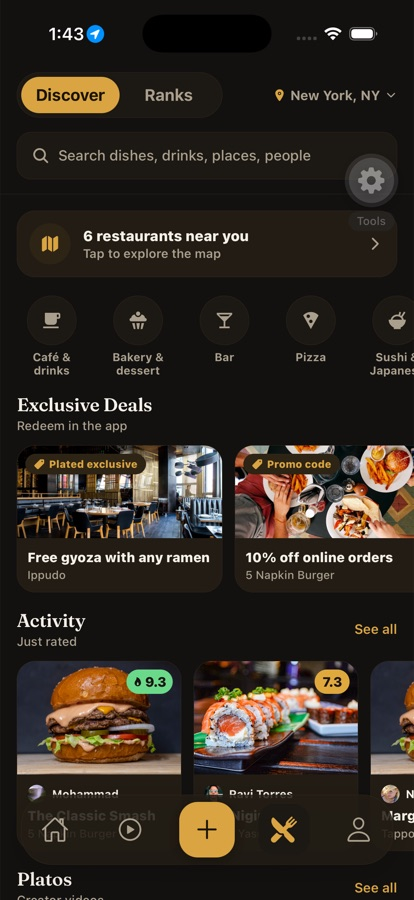
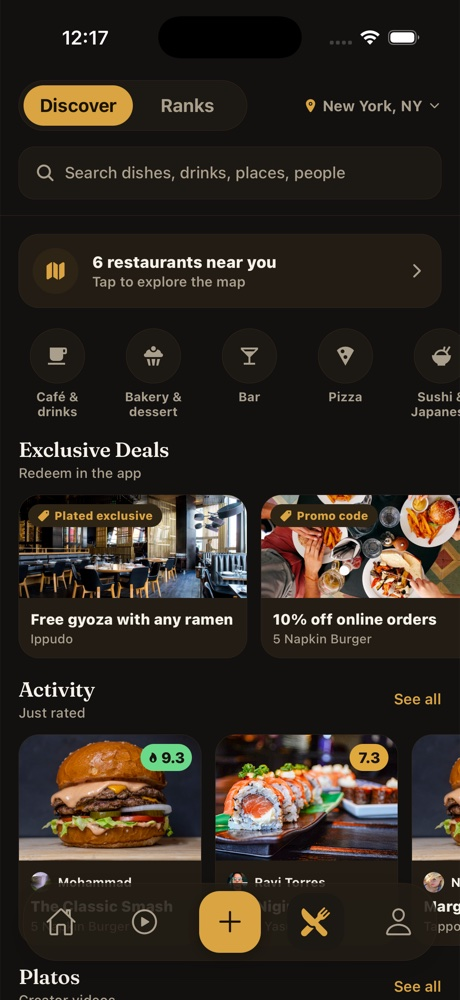
fix(web): remove dev-tools overlay from screenshots, show full device UI
The three app screenshots had the Expo dev-client's floating "Tools" FAB
baked into the image — it sits at a fixed screen position that happened
to land on top of real UI (the home feed's "..." menu, the map settings
gear on Discover), so it couldn't just be cropped without losing actual
app chrome. Disabled it at the source instead: expo-dev-menu persists
FAB visibility via a native DevMenuPreferences.setPreferencesAsync call
(no public JS API for it, so this reached the native module directly
through expo-modules-core's requireNativeModule), toggled off only long
enough to recapture clean screenshots, then restored to on afterward so
the simulator's normal dev workflow is unaffected. No src/ changes.

Also reworked the phone-frame crop: it previously showed only a
top-aligned slice of each screenshot (cutting off the bottom tab bar).
frame-window's aspect-ratio now matches the source screenshots exactly
(460:1000), so object-fit: cover shows the complete UI — status bar to
tab bar — with zero cropping. Bumped phone-frame width up accordingly
(hero 264->336px, feature rows 208->272px) so detail stays legible at
the larger, uncropped size.

diff --git a/web/public/styles.css b/web/public/styles.css
@@ -218,9 +218,9 @@ h1 {
 
 .hero-art { display: flex; justify-content: center; }
 .phone-frame {
-  width: 264px;
-  border-radius: 40px;
-  border: 8px solid #1a1a1a;
+  width: 336px;
+  border-radius: 46px;
+  border: 9px solid #1a1a1a;
   background: #1a1a1a;
   box-shadow: 0 30px 60px -20px rgba(58, 42, 14, 0.4), 0 4px 16px -6px rgba(58, 42, 14, 0.3);
   overflow: hidden;
@@ -229,7 +229,9 @@ h1 {
 .phone-frame--flat { transform: none; }
 .phone-frame .frame-window {
   width: 100%;
-  aspect-ratio: 9 / 17;
+  /* Matches the source screenshots exactly (460×1000) — the full UI, status
+     bar to tab bar, shows with zero crop instead of a top-only slice. */
+  aspect-ratio: 460 / 1000;
   overflow: hidden;
   position: relative;
 }
@@ -325,7 +327,7 @@ h1 {
 .feature-copy strong, .feature-copy em { color: var(--text); font-style: normal; }
 
 .feature-art { display: flex; justify-content: center; position: relative; z-index: 1; }
-.feature-art .phone-frame { width: 208px; transform: rotate(1.5deg); }
+.feature-art .phone-frame { width: 272px; transform: rotate(1.5deg); }
 .feature-row--reverse .feature-art .phone-frame { transform: rotate(-1.5deg); }
 
 /* Creators band */
